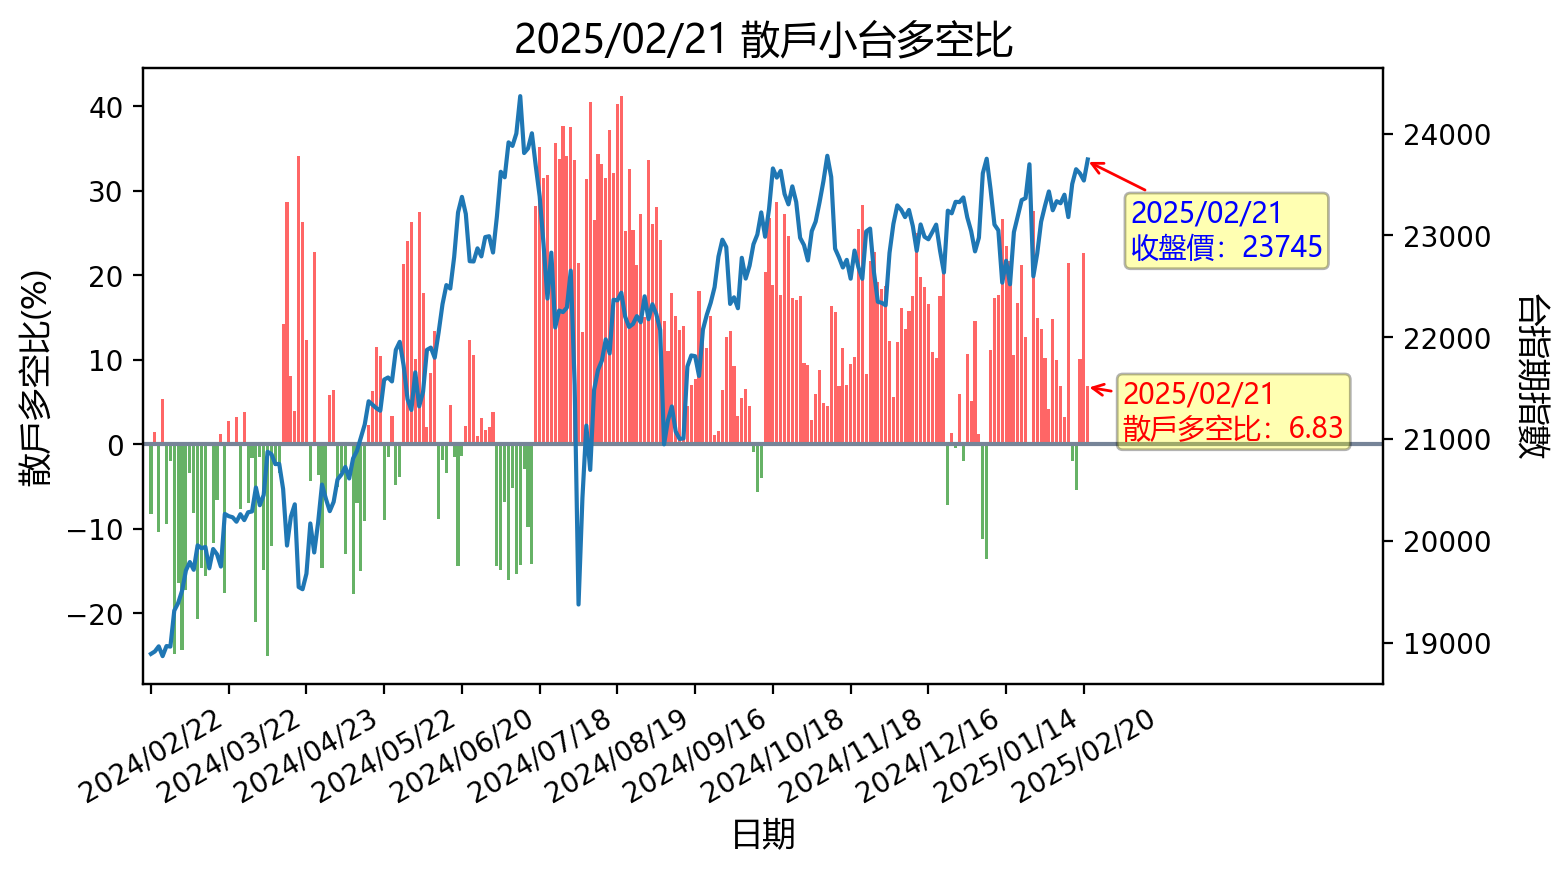
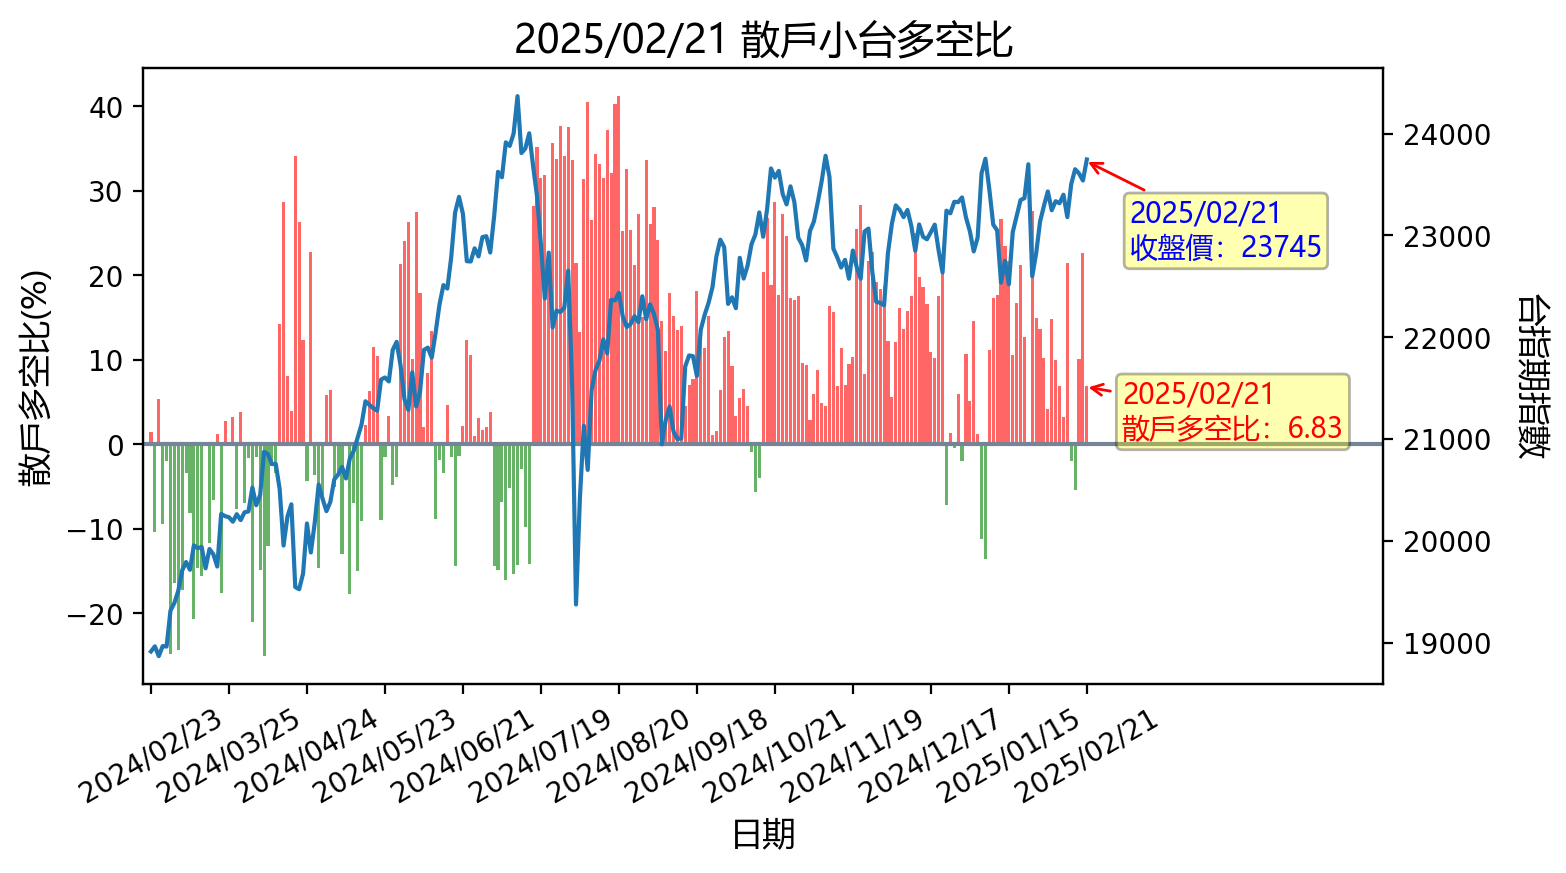
更新時間: Sun Feb 23 16:32:24 CST 2025

Changed region(s): [[0.092, 0.1237, 0.8582, 0.7732], [0.1533, 0.8041, 0.7356, 0.9278], [0.1226, 0.8041, 0.1533, 0.8351]]

diff --git a/README.md b/README.md
@@ -1,12 +1,12 @@
-## 20250222 台指期「預估換倉成本」
+## 20250223 台指期「預估換倉成本」
 ![](images/txfcost.png)
 
-## 20250222 台指期「散戶小台多空比」
+## 20250223 台指期「散戶小台多空比」
 ![](images/bbiri.png)
 
-## 20250222 台指選擇權「Put/Call Ratios」
+## 20250223 台指選擇權「Put/Call Ratios」
 ![](images/pcratio.png)
 
-## 20250222 台指期「大額交易人」
+## 20250223 台指期「大額交易人」
 ![](images/blocktrade.png)
 
